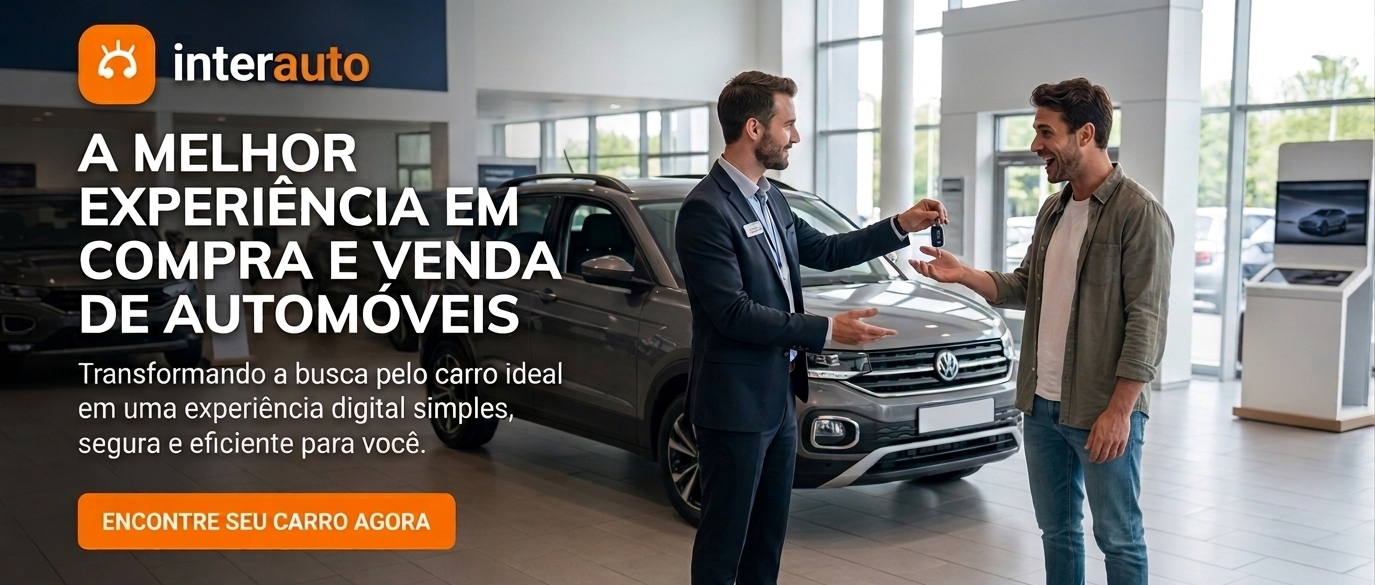
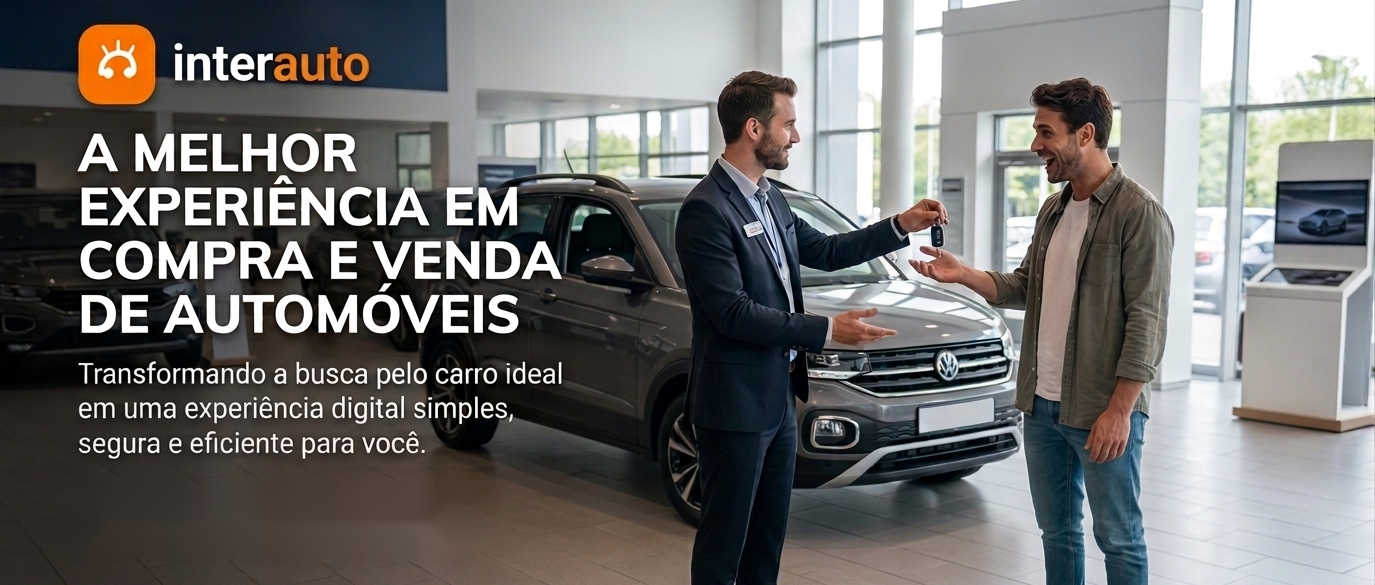
ajustes

Changed region(s): [[0.0305, 0.8308, 0.336, 0.9538]]

diff --git a/css/style.css b/css/style.css
@@ -42,6 +42,7 @@ a {
    padding: 50px;
    text-align: center;
    background-color: #14181F;
+   align-items: center;
 }
 .capa h1 {
 font-size: 60px;
@@ -99,6 +100,7 @@ box-shadow: 0 12px 30px rgba(0, 0, 0, 0.18);
     text-align: center;
     border-radius: 20px;
    font-weight: bold;
+   width: 90%;
 }
 #parceria{
       font-size: 50px;
